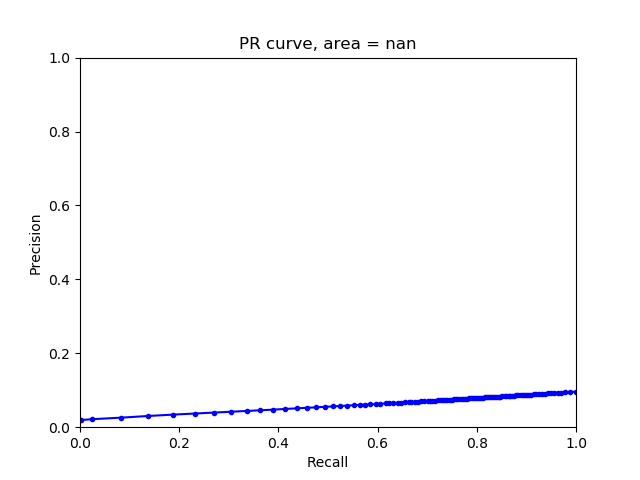
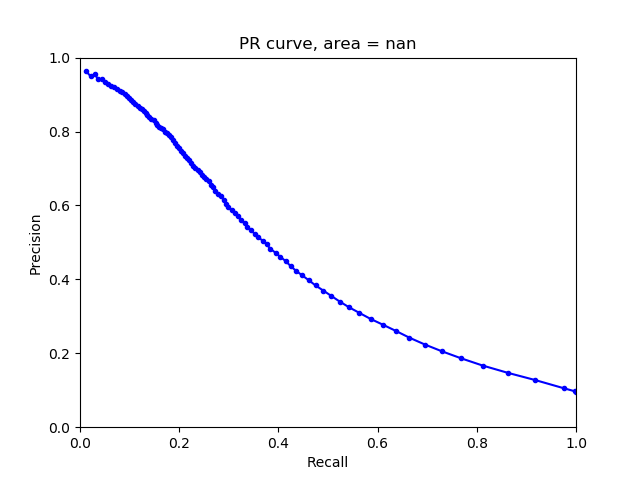
fixed predict scripts threshold. added dsQTLprep

diff --git a/scripts/dsQTLprep.py b/scripts/dsQTLprep.py
@@ -1,0 +1,23 @@
+import numpy as np
+import os
+
+file_dir = "rawdata/dsQTL.eval.txt"
+loci = []
+with open(file_dir) as f:
+	heading = f.readline().split()
+	for line in f:
+		row = line.split()
+		SNP = {}
+		for k, v in zip(heading, row):
+			SNP[k] = v
+		loci.append(SNP)
+
+print(loci[0]['label'])
+print(loci[0]['gkm_SVM'])
+print(len(loci))
+
+num_dsQTL = sum([int(x['label']) == 1 for x in loci])
+print(num_dsQTL)
+
+chromosomes = sorted(list(set([x['chr'] for x in loci])), key=lambda x: int(x.split('chr')[1]))
+print(chromosomes)

diff --git a/scripts/predict7A.py b/scripts/predict7A.py
@@ -65,7 +65,7 @@ thresholds = np.sort(np.unique(np.around(Ytest_pred[:,1], 2)))
 for threshold in thresholds:
 	# x is the prediction value for 1 (open region)
 	# if x <= threshold, then predict 1
-	predictions = np.array([int(x <= threshold) for x in Ytest_pred[:,1]], dtype=int)
+	predictions = np.array([int(x >= threshold) for x in Ytest_pred[:,1]], dtype=int)
 	pred_true = np.array(list(zip(predictions, true_labels)))
 
 	true_pos = sum([x[0] == x[1] == 1 for x in pred_true])

diff --git a/scripts/predict7B.py b/scripts/predict7B.py
@@ -71,7 +71,7 @@ thresholds = np.sort(np.unique(np.around(Ytest_pred[:,1], 2)))
 for threshold in thresholds:
 	# x is the prediction value for 1 (open region)
 	# if x <= threshold, then predict 1
-	predictions = np.array([int(x <= threshold) for x in Ytest_pred[:,1]], dtype=int)
+	predictions = np.array([int(x >= threshold) for x in Ytest_pred[:,1]], dtype=int)
 	pred_true = np.array(list(zip(predictions, true_labels)))
 
 	true_pos = sum([x[0] == x[1] == 1 for x in pred_true])

diff --git a/scripts/predict7C.py b/scripts/predict7C.py
@@ -81,7 +81,7 @@ thresholds = np.sort(np.unique(np.around(Ytest_pred[:,1], 2)))
 for threshold in thresholds:
 	# x is the prediction value for 1 (open region)
 	# if x <= threshold, then predict 1
-	predictions = np.array([int(x <= threshold) for x in Ytest_pred[:,1]], dtype=int)
+	predictions = np.array([int(x >= threshold) for x in Ytest_pred[:,1]], dtype=int)
 	pred_true = np.array(list(zip(predictions, true_labels)))
 
 	true_pos = sum([x[0] == x[1] == 1 for x in pred_true])

diff --git a/scripts/predict7E.py b/scripts/predict7E.py
@@ -65,7 +65,7 @@ thresholds = np.sort(np.unique(np.around(Ytest_pred[:,1], 2)))
 for threshold in thresholds:
 	# x is the prediction value for 1 (open region)
 	# if x <= threshold, then predict 1
-	predictions = np.array([int(x <= threshold) for x in Ytest_pred[:,1]], dtype=int)
+	predictions = np.array([int(x >= threshold) for x in Ytest_pred[:,1]], dtype=int)
 	pred_true = np.array(list(zip(predictions, true_labels)))
 
 	true_pos = sum([x[0] == x[1] == 1 for x in pred_true])

diff --git a/scripts/predict7F.py b/scripts/predict7F.py
@@ -65,7 +65,7 @@ thresholds = np.sort(np.unique(np.around(Ytest_pred[:,1], 2)))
 for threshold in thresholds:
 	# x is the prediction value for 1 (open region)
 	# if x <= threshold, then predict 1
-	predictions = np.array([int(x <= threshold) for x in Ytest_pred[:,1]], dtype=int)
+	predictions = np.array([int(x >= threshold) for x in Ytest_pred[:,1]], dtype=int)
 	pred_true = np.array(list(zip(predictions, true_labels)))
 
 	true_pos = sum([x[0] == x[1] == 1 for x in pred_true])

diff --git a/scripts/predict7G.py b/scripts/predict7G.py
@@ -65,7 +65,7 @@ thresholds = np.sort(np.unique(np.around(Ytest_pred[:,1], 2)))
 for threshold in thresholds:
 	# x is the prediction value for 1 (open region)
 	# if x <= threshold, then predict 1
-	predictions = np.array([int(x <= threshold) for x in Ytest_pred[:,1]], dtype=int)
+	predictions = np.array([int(x >= threshold) for x in Ytest_pred[:,1]], dtype=int)
 	pred_true = np.array(list(zip(predictions, true_labels)))
 
 	true_pos = sum([x[0] == x[1] == 1 for x in pred_true])

diff --git a/scripts/predict7H.py b/scripts/predict7H.py
@@ -65,7 +65,7 @@ thresholds = np.sort(np.unique(np.around(Ytest_pred[:,1], 2)))
 for threshold in thresholds:
 	# x is the prediction value for 1 (open region)
 	# if x <= threshold, then predict 1
-	predictions = np.array([int(x <= threshold) for x in Ytest_pred[:,1]], dtype=int)
+	predictions = np.array([int(x >= threshold) for x in Ytest_pred[:,1]], dtype=int)
 	pred_true = np.array(list(zip(predictions, true_labels)))
 
 	true_pos = sum([x[0] == x[1] == 1 for x in pred_true])

diff --git a/scripts/predict7I.py b/scripts/predict7I.py
@@ -71,7 +71,7 @@ thresholds = np.sort(np.unique(np.around(Ytest_pred[:,1], 2)))
 for threshold in thresholds:
 	# x is the prediction value for 1 (open region)
 	# if x <= threshold, then predict 1
-	predictions = np.array([int(x <= threshold) for x in Ytest_pred[:,1]], dtype=int)
+	predictions = np.array([int(x >= threshold) for x in Ytest_pred[:,1]], dtype=int)
 	pred_true = np.array(list(zip(predictions, true_labels)))
 
 	true_pos = sum([x[0] == x[1] == 1 for x in pred_true])

diff --git a/scripts/predict7D.py b/scripts/predict7D.py
@@ -77,7 +77,7 @@ print(thresholds.shape)
 for threshold in thresholds:
 	# x is the prediction value for 1 (open region)
 	# if x <= threshold, then predict 1
-	predictions = np.array([int(x <= threshold) for x in Ytest_pred[:,1]], dtype=int)
+	predictions = np.array([int(x >= threshold) for x in Ytest_pred[:,1]], dtype=int)
 	pred_true = np.array(list(zip(predictions, true_labels)))
 
 	true_pos = sum([x[0] == x[1] == 1 for x in pred_true])
